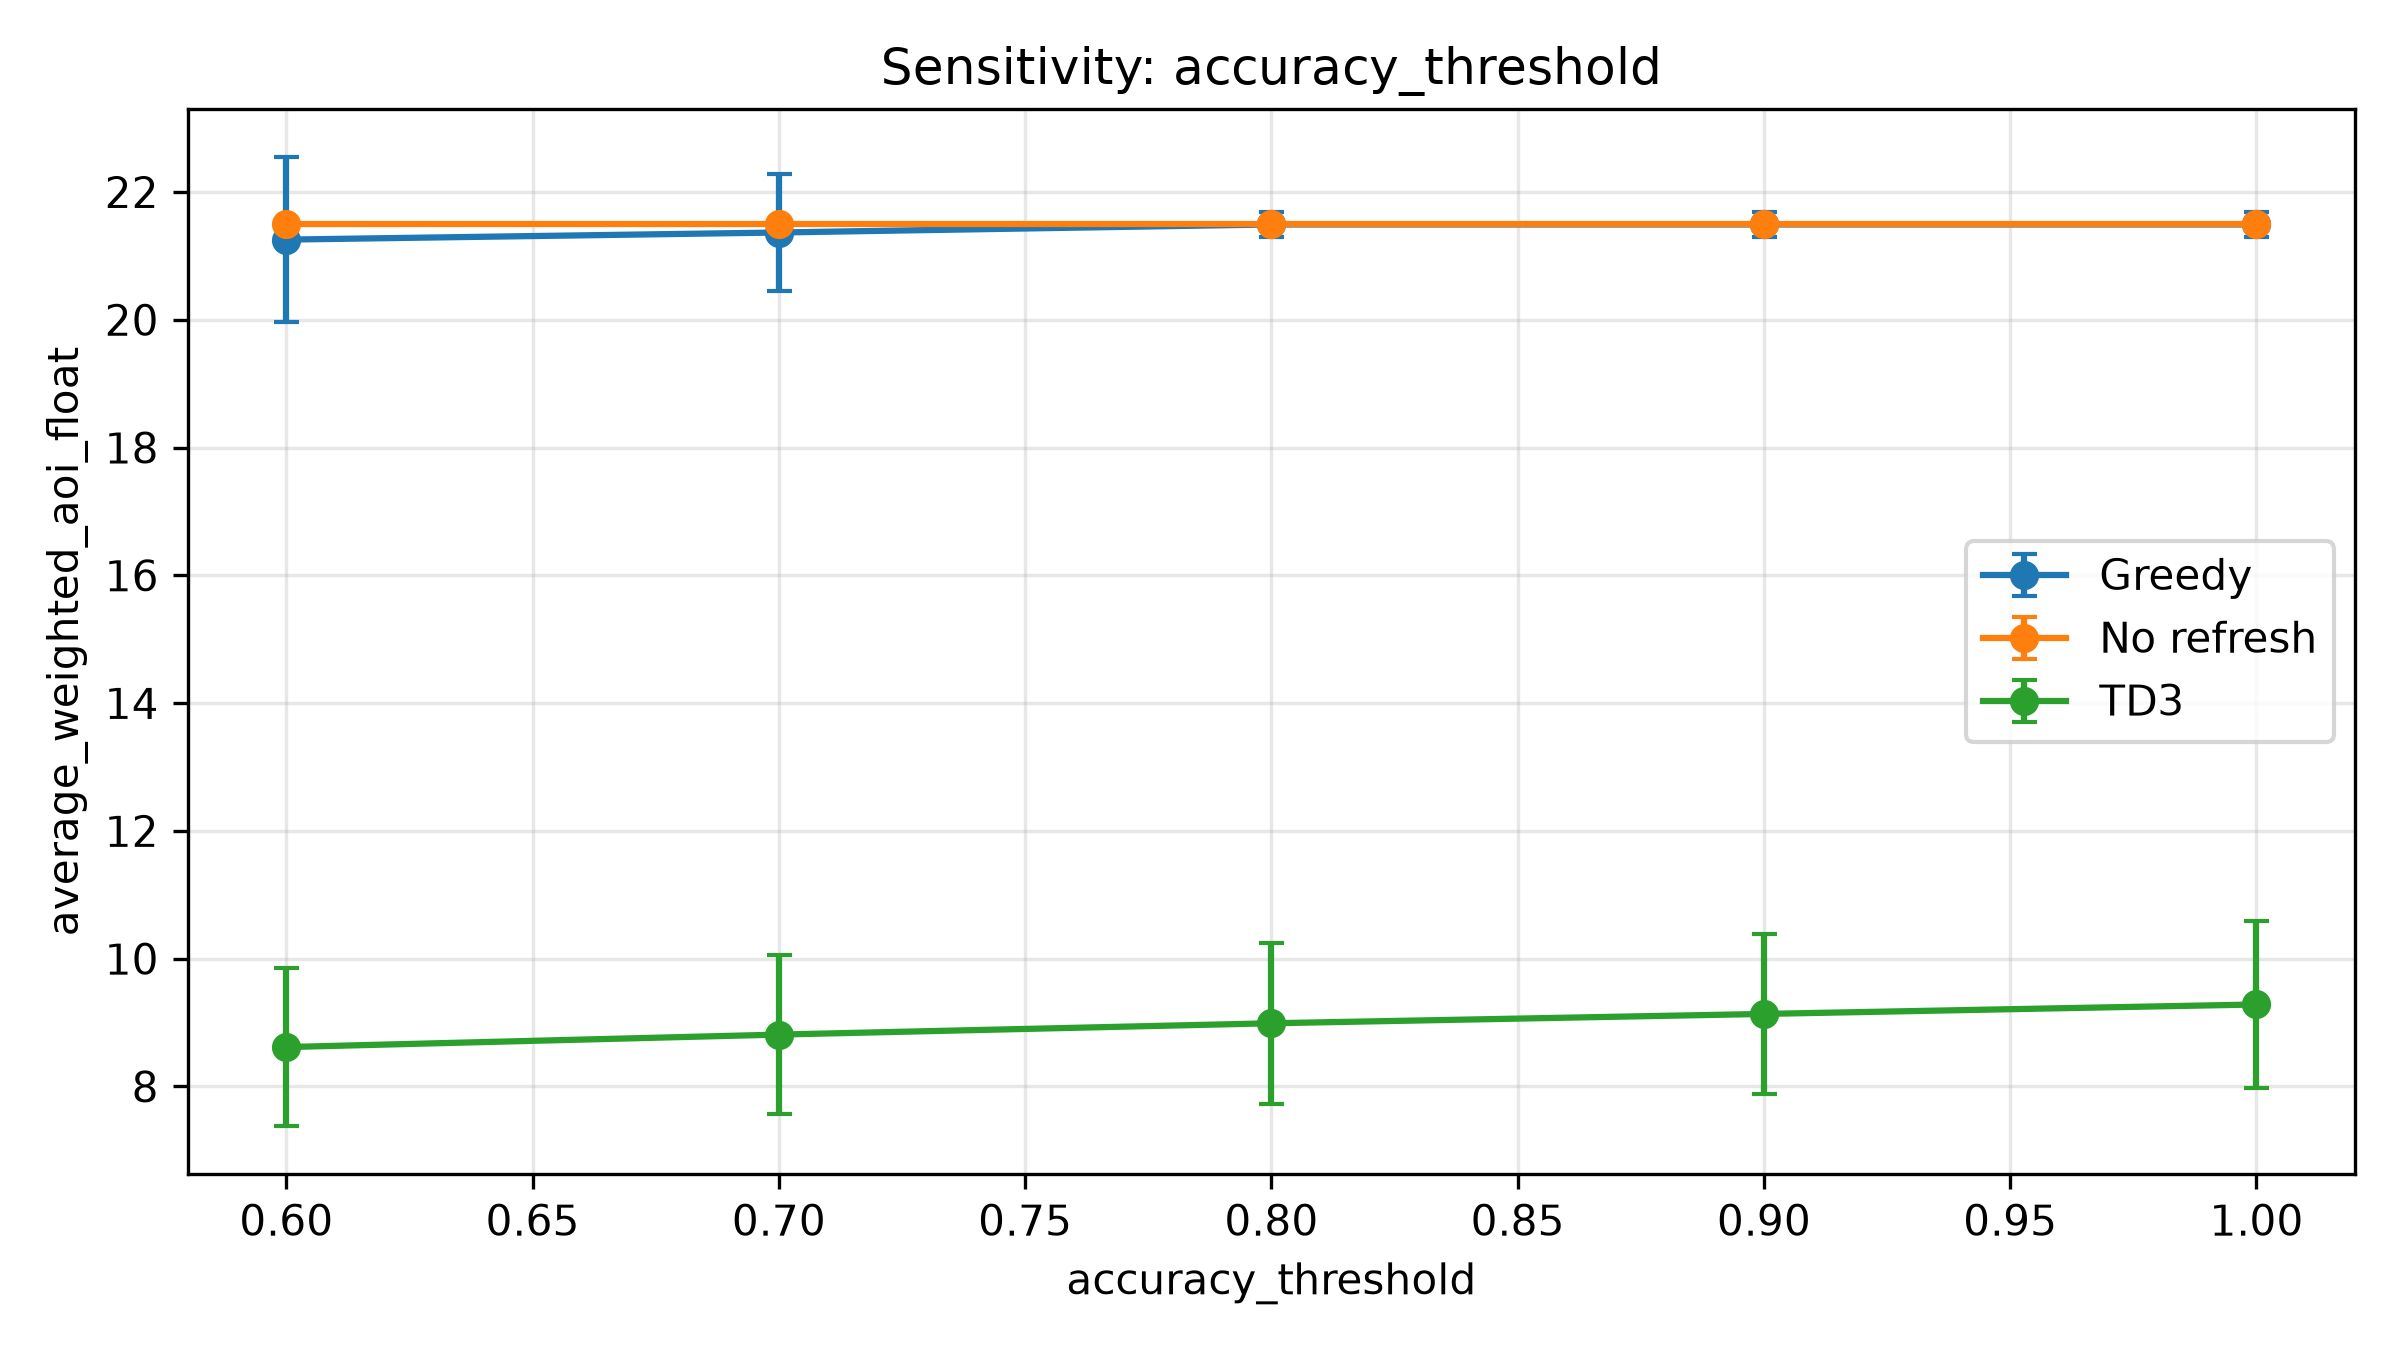
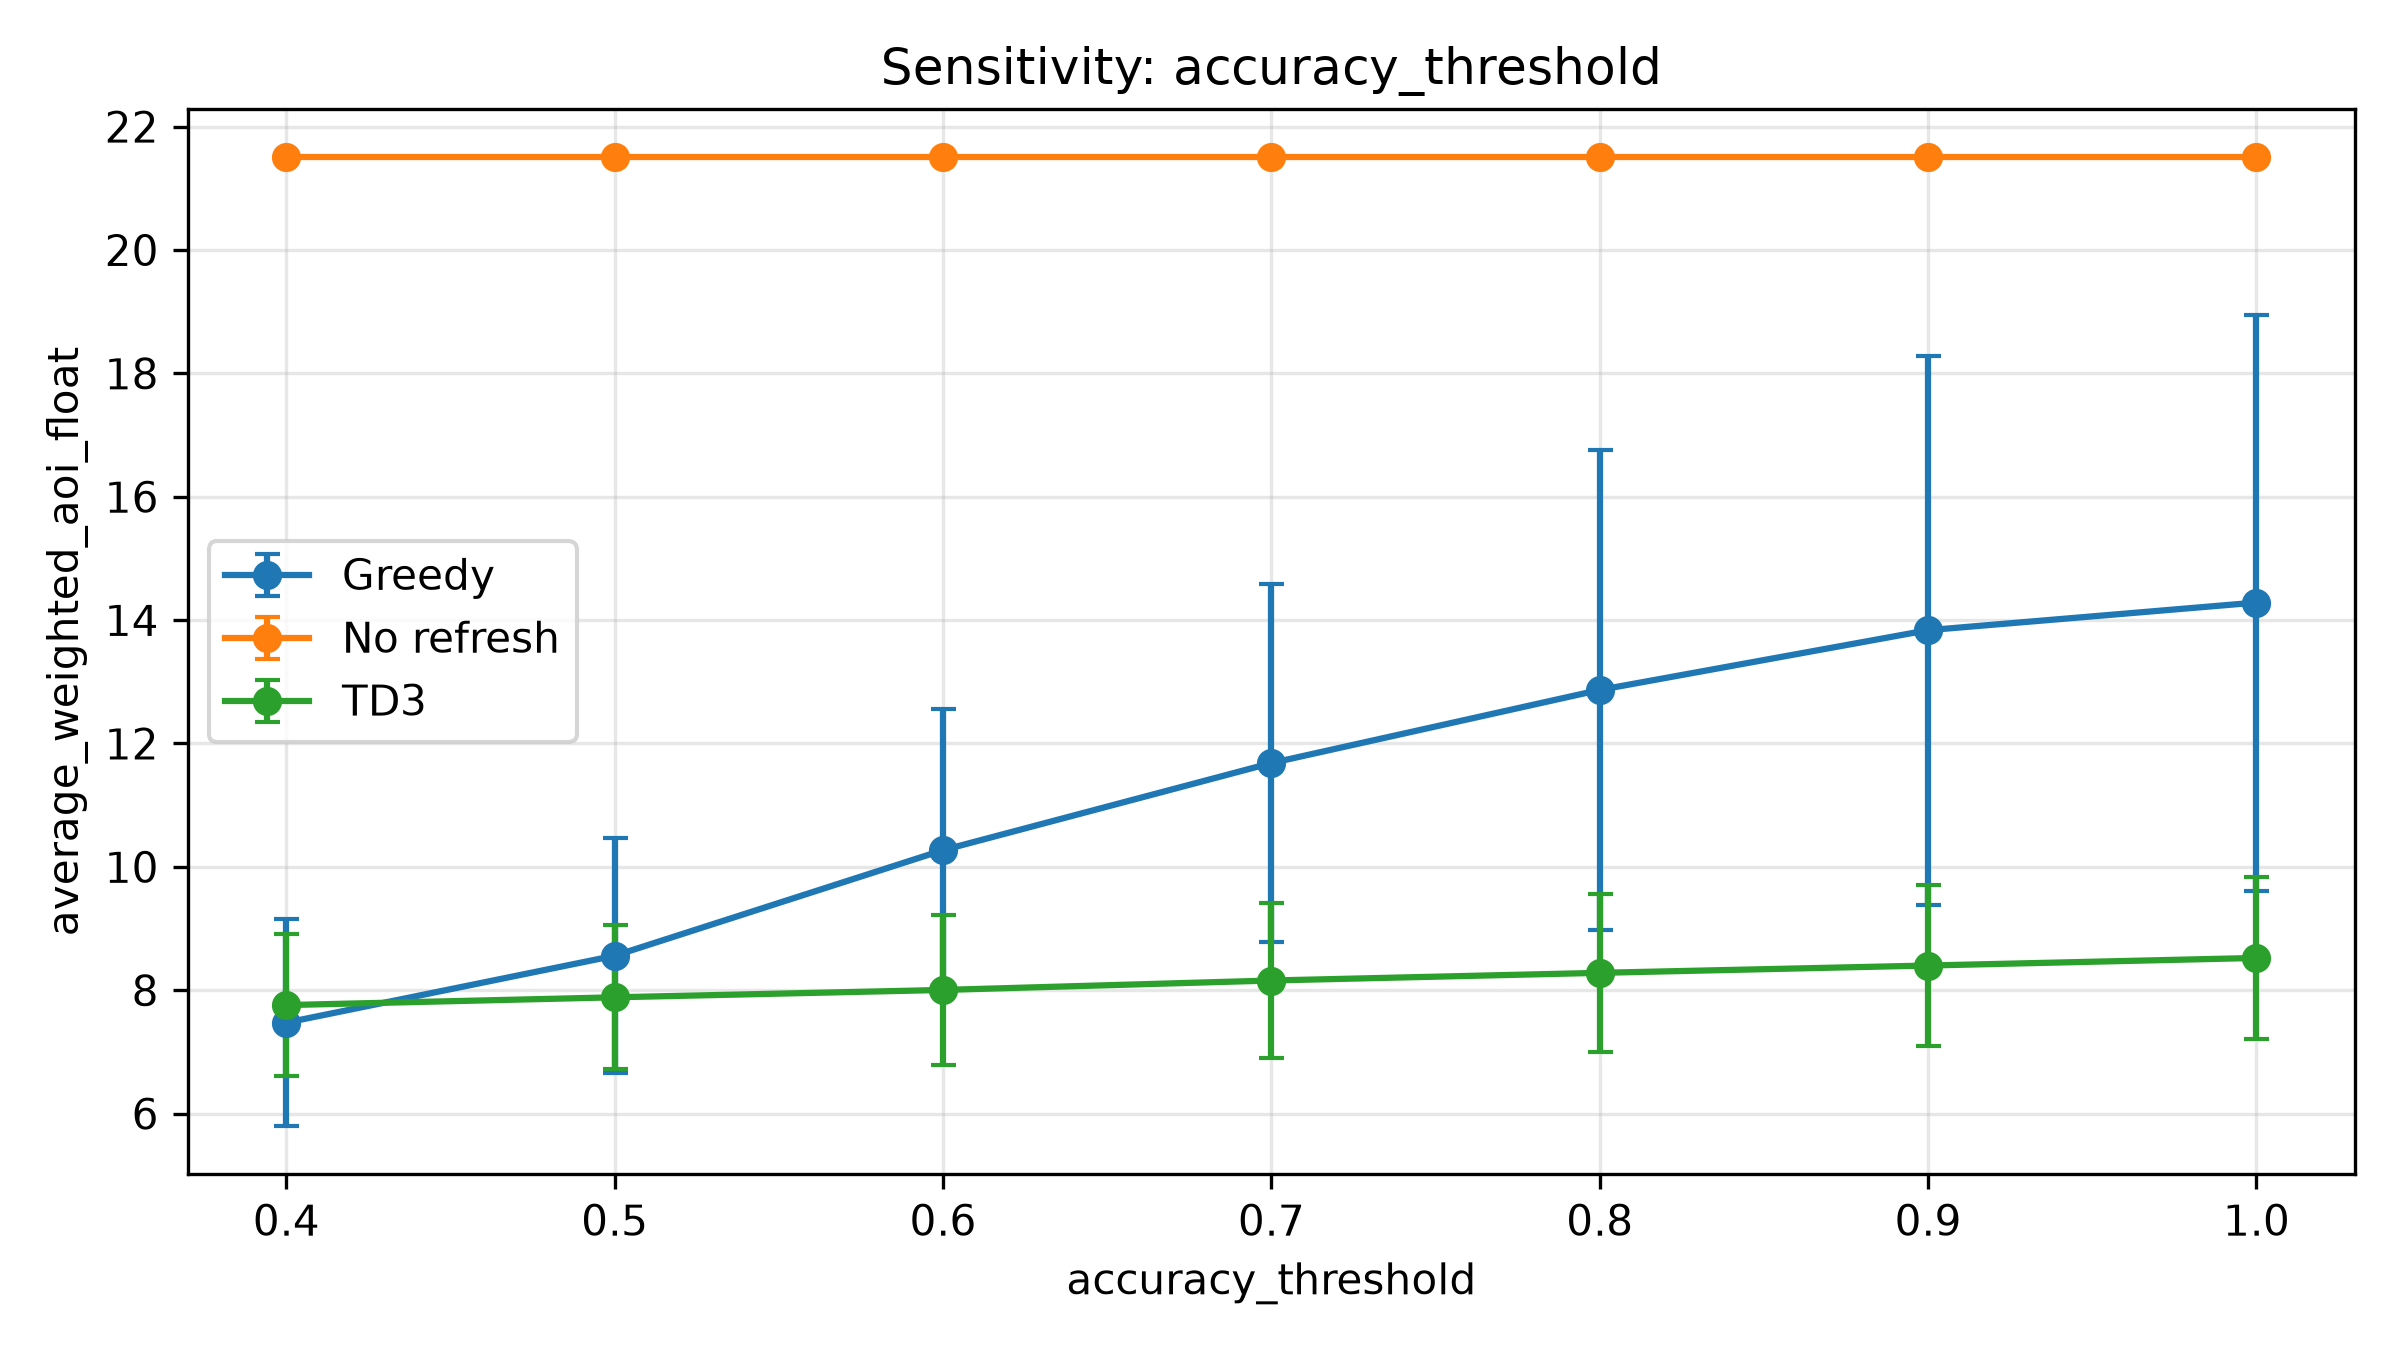
Simulation: add new config (more resources, shorter defective zone) and results

diff --git a/leader_dt/constants.py b/leader_dt/constants.py
@@ -9,7 +9,7 @@ EPSILON_FLOAT: float = 1.0e-12
 
 DEFAULT_TIME_HORIZON_SLOTS: int = 40
 DEFAULT_SLOT_DURATION_SECONDS: float = 1.0
-DEFAULT_VEHICLE_COUNT: int = 40
+DEFAULT_VEHICLE_COUNT: int = 20
 DEFAULT_SENSOR_TYPE_COUNT: int = 8
 DEFAULT_SENSORS_PER_VEHICLE: int = 4
 
@@ -20,16 +20,16 @@ DEFAULT_MAX_SENSORS_PER_VEHICLE_FOR_ACTION_SPACE: int = 4
 DEFAULT_FRESHNESS_THRESHOLD_SLOTS: int = 10
 DEFAULT_ACCURACY_THRESHOLD: float = 0.80
 
-DEFAULT_UPLINK_BANDWIDTH_HZ: float = 6.0e5
+DEFAULT_UPLINK_BANDWIDTH_HZ: float = 1_200_000.0
 DEFAULT_V2L_MAX_TRANSMIT_POWER_WATT: float = 1.0
 DEFAULT_NOISE_POWER_SPECTRAL_DENSITY_WATT_PER_HZ: float = 1.0e-12
 DEFAULT_UPLINK_PATHLOSS_EXPONENT: float = 2.5
 
-DEFAULT_LEADER_CPU_FREQUENCY_CYCLES_PER_SECOND: float = 1.5e6
+DEFAULT_LEADER_CPU_FREQUENCY_CYCLES_PER_SECOND: float = 2_500_000.0
 
-DEFAULT_LANE_LENGTH_METER: float = 2000.0
+DEFAULT_LANE_LENGTH_METER: float = 1500.0
 DEFAULT_DEFECTIVE_ZONE_START_METER: float = 500.0
-DEFAULT_DEFECTIVE_ZONE_END_METER: float = 2500.0
+DEFAULT_DEFECTIVE_ZONE_END_METER: float = 2000.0
 DEFAULT_VEHICLE_SPEED_METER_PER_SECOND: float = 15.0
 DEFAULT_VEHICLE_SPEED_JITTER_STD_METER_PER_SECOND: float = 1.0
 
@@ -104,7 +104,7 @@ DEFAULT_TOTAL_TIMESTEPS: int = 500_000
 # score-space penalty coefficient in weighted-AoI units per normalized CPU
 # backlog slot. The requested accuracy fraction controls how much of a
 # pair's available payload the Greedy policy asks to upload.
-DEFAULT_GREEDY_CPU_LAMBDA: float = 5.0
+DEFAULT_GREEDY_CPU_LAMBDA: float = 1.0
 DEFAULT_GREEDY_REQUESTED_ACCURACY_FRACTION: float = 1.0
 
 # TD3 convergence-training defaults.  These are intentionally centralized so
